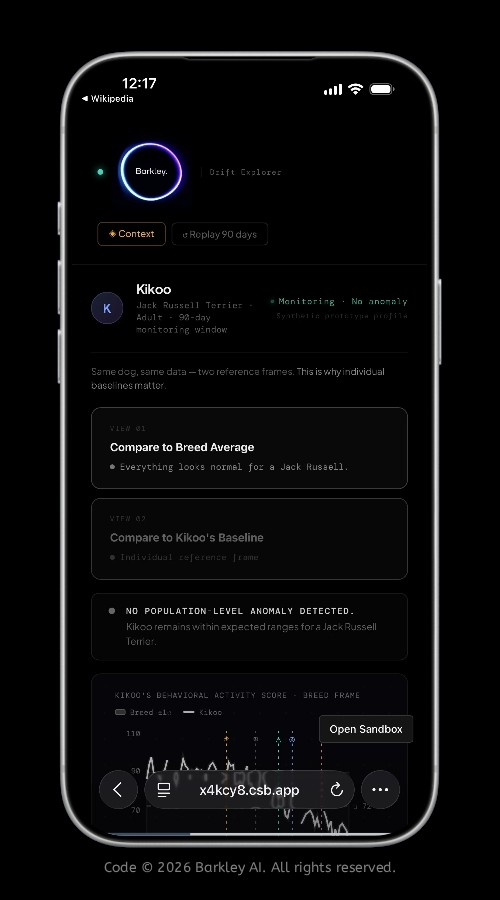
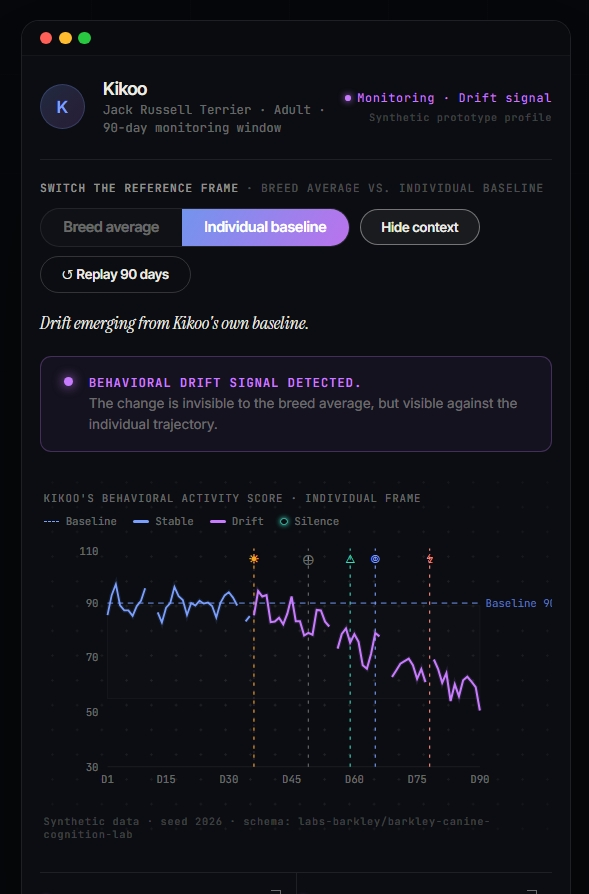
drift-explorer: refresh screenshots for the v9 redesign
- breed-baseline-preview.jpg: breed frame (the frame that sees normal)
- individual-baseline-preview.jpg: individual frame (the frame that sees drift)
- mobile-preview.jpg: mobile capture of the individual frame
- og:image / twitter:image now point to individual-baseline-preview.jpg
- README: screenshot section updated (+ fixed escaped markdown brackets)

diff --git a/drift-explorer/index.html b/drift-explorer/index.html
@@ -25,7 +25,7 @@
     <meta property="og:site_name" content="Barkley AI" />
     <meta property="og:title" content="Barkley Drift Explorer — Behavioral Intelligence for Dogs" />
     <meta property="og:description" content="An interactive demonstration showing how a dog can remain normal for its breed while drifting away from its own behavioral baseline." />
-    <meta property="og:image" content="https://drift-explorer.getbarkley.com/screenshots/desktop-hero.jpg" />
+    <meta property="og:image" content="https://drift-explorer.getbarkley.com/screenshots/individual-baseline-preview.jpg" />
     <meta property="og:type" content="website" />
     <meta property="og:url" content="https://drift-explorer.getbarkley.com/" />
 
@@ -33,7 +33,7 @@
     <meta name="twitter:card" content="summary_large_image" />
     <meta name="twitter:title" content="Barkley Drift Explorer" />
     <meta name="twitter:description" content="Behavioral intelligence for dogs through individual baselines and longitudinal drift detection." />
-    <meta name="twitter:image" content="https://drift-explorer.getbarkley.com/screenshots/desktop-hero.jpg" />
+    <meta name="twitter:image" content="https://drift-explorer.getbarkley.com/screenshots/individual-baseline-preview.jpg" />
 
     <style>html,body{margin:0;background:#06070a;}</style>
   </head>

diff --git a/drift-explorer/README.md b/drift-explorer/README.md
@@ -55,17 +55,17 @@ The timeline marks moments of absence and labels their likely nature: collar rem
 
 ## Screenshots
 
-### Desktop overview
+### Breed average — the frame that sees "normal"
 
-!\[Barkley Drift Explorer desktop overview](./public/screenshots/desktop-hero.jpg)
+![Breed average reference frame — Kikoo looks normal for a Jack Russell](./public/screenshots/breed-baseline-preview.jpg)
 
-### Drift reveal
+### Individual baseline — the frame that sees drift
 
-!\[Individual baseline drift reveal](./public/screenshots/drift-reveal.jpg)
+![Individual baseline reference frame — drift emerging from Kikoo's own baseline](./public/screenshots/individual-baseline-preview.jpg)
 
 ### Mobile preview
 
-!\[Mobile preview of Barkley Drift Explorer](./public/screenshots/mobile-preview.jpg)
+![Mobile preview of Barkley Drift Explorer](./public/screenshots/mobile-preview.jpg)
 
 \---
 
@@ -90,7 +90,7 @@ drift-explorer/
 ├── main.jsx
 ├── BarkleyDriftExplorer.jsx
 └── public/
-    └── screenshots/         # desktop-hero.jpg · drift-reveal.jpg · mobile-preview.jpg
+    └── screenshots/         # breed-baseline-preview.jpg · individual-baseline-preview.jpg · mobile-preview.jpg
 ```
 
 \---